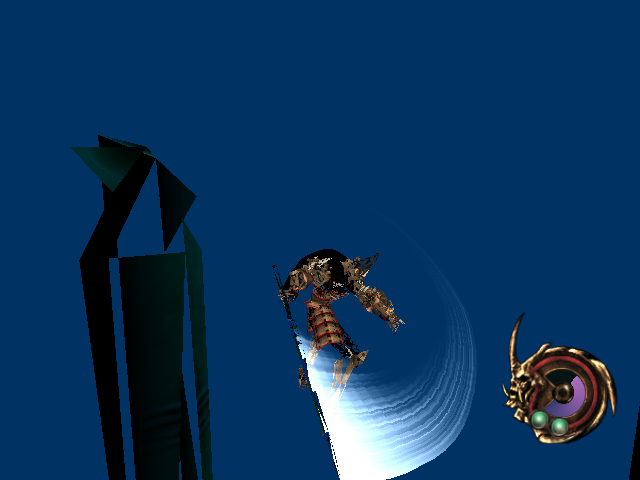
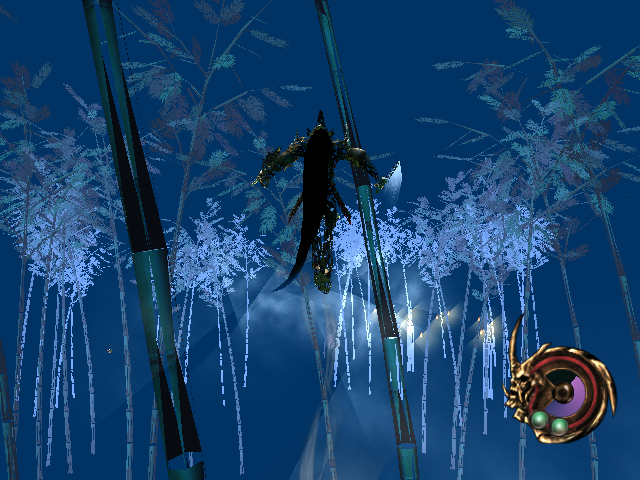
fog: the stage's ground and foliage were the fog unit's offset

diff --git a/docs/KNOWN_ISSUES.md b/docs/KNOWN_ISSUES.md
@@ -2,36 +2,39 @@
 
 One entry per open blocker. Each records the symptom as it appears in a log, the evidence behind it, the current status, and where a fix belongs. Milestone status is in [`../ROADMAP.md`](../ROADMAP.md); the raw history is in [`BOOT_LOG.md`](BOOT_LOG.md).
 
-## The stage's lit geometry is drawn inside-out and too dark
+## The stage's lit geometry was drawn inside-out, torn and painted the fog colour
+
+Closed on 2026-10-28 in three parts; kept because each symptom pointed at a
+
+different fault and the first two fixes only looked like each other.
 
 - **Symptom:** on the start-game stage the bamboo trunks read as hollow black
   wedges with a green rim, the player model as a dark inside-out silhouette,
-  and the ground is the same blue as the sky. In close-up cutscene shots the
-  player tears into spiky triangles instead of a smooth model. The HUD, the
-  leaves, the haze planes and the light shafts draw.
-- **Fixed on 2026-10-28 — the inside-out half:** the OpenGL back end mirrored
-  `SET_FRONT_FACE` in `apply_state()`; mirrored, every closed mesh kept its
-  back faces (the inside). It now maps 0x0900/0x0901 straight through, and
-  `RECOMP_GL_NO_CULL=1`/the fixed build both draw the trunks solid. See
-  `BOOT_LOG.md`, 2026-10-28.
-- **Still open — the dark half:** the ground and the shaded side of the
-  trunks carry the fog/sky colour, and the close-up player tears. Evidence:
-  culling off changes neither the ground nor the tearing; `RECOMP_GL_FLAT=1`
-  paints the whole scene, so the geometry is submitted and passes depth, cull
-  and alpha; `RECOMP_GL_NO_COMB=1` makes the stage darker, not brighter, so
-  the combiner is not the only stage in play. `RECOMP_VSH_ALWAYS=1` is not
-  the answer (1.7M draw calls, flips stop).
-- **Ruled out:** an unimplemented stage mode (`[PBGL] stage modes` counts 270
-  mode-6 uses against 3.5M of 0/1/4), the G8B8 decode below, and culling
-  (above).
-- **Status:** open. Next lead: the per-vertex colour and fog factor the lit
-  batches hand the pixel stage, on **both** back ends — the CPU rasteriser
-  misses the ground too, so this is executor-side, not GL-side. `RECOMP_VSH_DUMP`
-  over a stage run is the cheapest next capture (the lighting programs are
-  the ones with `lit`/`dp3` and the c[64+] constants).
-- **Where the fix belongs:** the executor's vertex program interpreter or the
-  per-vertex inputs it builds (`src/kernel/nv2a_pb_exec.c`,
-  `src/kernel/nv2a_vsh_interp.c`), not the OpenGL back end's state.
+  and the ground was the same blue as the sky. In close-up cutscene shots the
+  player tore into spiky triangles instead of a smooth model. The HUD, the
+  leaves, the haze planes and the light shafts drew.
+- **The inside-out half (fixed):** the OpenGL back end mirrored `SET_FRONT_FACE`
+  in `apply_state()`; mirrored, every closed mesh kept its back faces (the
+  inside). It now maps 0x0900/0x0901 straight through.
+- **The torn half (fixed):** `NV_PRIM_TRIANGLE_STRIP` was decomposed as three
+  consecutive vertices in ascending order. The hardware reverses every other
+  triangle, so every odd one faced backwards -- invisible where nothing culls,
+  and a mesh shredded into its flipped triangles wherever the title does.
+  `RECOMP_CULL_LOG` shows Otogi's model arriving as strip batches with culling
+  on, alternating cull-front and cull-back.
+- **The blue wash half (fixed):** the fog unit subtracted a constant from
+  `fog_param0 + coord * fog_param1`. Otogi enables fog and leaves both params
+  at 1.0, which saturates to "no fog" on hardware; the subtraction turned the
+  program's own `oFog` into the fog factor instead, and painted the ground and
+  the foliage with the fog colour. `RECOMP_FOG_TRACE` caught it:
+  `[FOG] mode 2601 en 1 px 1 py 1 d -nan -> f 1`. The linear path no longer
+  subtracts anything. The exponential paths still do (see `BOOT_LOG.md`).
+- **Verification:** the stage now draws dark green foliage, teal trunks and a
+  textured dark ground under the haze band, with the player model whole in
+  close-ups, culling on.
+- **Where the fixes belong:** `apply_state()` in `src/nv2a/nv2a_pb_gl.c`, and
+  the primitive decompositions and `fog_factor()` in
+  `src/kernel/nv2a_pb_exec.c`.
 
 ## Closed on 2026-10-28 — the effect planes drew as hard-edged wedges
 

diff --git a/docs/RUNNING.md b/docs/RUNNING.md
@@ -51,9 +51,13 @@ $ ./build-win/bin/otogi1.exe # MinGW cross-build
 
 It runs the title's main loop indefinitely; `Ctrl+C` ends it.
 
-**Reference run:** `RECOMP_USB=1 RECOMP_FB_WINDOW=1 RECOMP_PB_EXEC=1 RECOMP_AC97_READY=1 ./build-linux/bin/otogi1` with a physical gamepad reaches New Game, save creation and loading, the main menu, the start-game stage and the pause menu. On the stage the player's 3D model is drawn; the stage world is not.
+**Reference run:** `RECOMP_USB=1 RECOMP_FB_WINDOW=1 RECOMP_PB_EXEC=1 RECOMP_AC97_READY=1 ./build-linux/bin/otogi1` with a physical gamepad reaches New Game, save creation and loading, the main menu, the start-game stage and the pause menu. On the stage the bamboo grove, the ground haze, the light shafts, the HUD and the player's 3D model are drawn.
+
+**Headless run, no input at all:** `RECOMP_PB_EXEC=1 RECOMP_USB=1 ./build-linux/bin/otogi1` sits on the title screen, which is where the looping attract movie plays — any pad input skips it, so this is the only way to capture that phase (`BOOT_LOG.md`, 2026-10-28).
 
 **Headless run, no pad:** `RECOMP_PB_EXEC=1 RECOMP_USB=1 RECOMP_AUTOPRESS=1 ./build-linux/bin/otogi1` taps START then A on the emulated pad, starts a new game and reaches the start-game stage in about 90-120 s. It renders through the OpenGL back end by default. Add `RECOMP_FB_DUMP=/tmp/f` and `RECOMP_FB_DUMP_FLIPS=/tmp/go` to write a BMP per presented frame while `/tmp/go` exists — the only way to look at a headless run.
+
+**Headless run to a specific screen:** a pad *script* is deterministic where the autopress schedule is not — one 2026-10-27 run sat on the title screen for 175 s because both START taps fell before the title was reading its pad. `RECOMP_PAD_SCRIPT` takes a timeline in milliseconds (`<ms>:<button>[:<hold ms>]`, comma or newline separated, `@file` to read it from a file), e.g. START taps every 1.5 s for 24 s and then an A tap every 1.2 s; that reaches the stage and the pause menu every time (`BOOT_LOG.md`, 2026-10-27).
 
 The OpenGL path needs a display. On a machine with none, run it under `Xvfb`; without one, `RECOMP_PB_GL=0` falls back to the CPU rasteriser, which is roughly ten times slower on the same scene.
 
@@ -73,8 +77,18 @@ instructions use; `AGENTS.md` § 7 has the complete set.
 | `RECOMP_SYNC_IO=1` | Complete `NtReadFile` inline (pre-audio-fix behaviour) |
 | `RECOMP_AUTOPRESS=1` | Tap START then A on the emulated pad (needs `RECOMP_USB`); `RECOMP_AUTOPRESS_PERIOD_MS` sets the A-tap period |
 | `RECOMP_PB_GL=0` | Keep the CPU rasteriser instead of the OpenGL back end |
+| `RECOMP_PAD_SCRIPT=@file` | Drive the pad from a timeline of `<ms>:<button>` entries |
 | `RECOMP_XF_THREADS=<n>` | Vertex-transform workers (default cores-1, max 8) |
 | `RECOMP_DISPATCH_GATE=1` | Serialise DISPATCH_LEVEL and interrupts; set by default for this title |
+| `RECOMP_GL_COMB=<n>` | Print the register-combiner registers, once per distinct configuration, for 2D batches |
+| `RECOMP_GL_STATE=<n>` | Print the render state handed to the back end for a spread of batches |
+| `RECOMP_GL_NO_CULL` / `_NO_DEPTH` / `_NO_BLEND` / `_NO_ALPHA` / `_ALLCHAN` | Force one raster gate open, to bisect a scene that draws too little |
+| `RECOMP_GL_FLAT=1` | Paint every fragment that survives depth, cull and alpha magenta — the difference between "not submitted" and "not painted" |
+| `RECOMP_GL_NO_COMB=1` | Skip the register combiners and modulate stage 0 by the vertex colour, the back end's original pixel stage |
+| `RECOMP_TEX_DUMP=<prefix>` | Write every distinct texture the executor samples as a BMP, through the sampler |
+| `RECOMP_PB_GL_TEXREFRESH=<n>` | Re-upload bound textures every n frames, for a title that rewrites one in place |
+| `RECOMP_XF_FLAT=<n>` | Print the batches that lose every triangle and land on screen, with their inputs and vertex program |
+| `RECOMP_VSH_DUMP=1` | Disassemble each vertex program the title uploads |
 
 On a headless box, run the window under `Xvfb`.
 

diff --git a/docs/BOOT_LOG.md b/docs/BOOT_LOG.md
@@ -788,3 +788,37 @@ Template:
   half, so the ground is submitted and passes every gate); the fog colour
   unpack (R/B swap matches the CPU path); the front-face mapping (bamboo,
   ground and player all agree under the pass-through).
+
+## 2026-10-28 — the fog unit's offset painted the stage the fog colour
+
+- Phase: gameplay (start-game stage, both back ends)
+- Symptom: the ground never separated from the sky and the bamboo foliage was
+  pale cyan where the CPU reference (`docs/img/gameplay.png`) is dark green.
+  Nothing about culling, depth or the combiner explained it: `RECOMP_GL_FLAT=1`
+  painted the whole lower half, so the ground was submitted and passed every
+  gate, and `RECOMP_GL_NO_COMB=1` (diffuse times stage 0, no fog) drew the
+  foliage and bark the right dark green.
+- RVA / target: n/a (a fog unit constant, not a lifted function)
+- Diagnosis: `fog_factor()` subtracted a constant from the NV2A's
+  `fog_param0 + coord * fog_param1` (1.0 linear, 1.5 exponential). Otogi
+  enables fog, leaves both params at 1.0 and writes its own factor into oFog,
+  so the subtraction turned that factor straight into the fog factor:
+  px = py = 1 gives `f = d`, where hardware saturates `1 + d` to 1 -- no fog,
+  which is what the title wanted. The record that caught it:
+  `[FOG] mode 2601 en 1 px 1 py 1 d -nan -> f 1`, and a foliage batch a few
+  units from the camera at `fogf 0.429`, i.e. 57% fog colour on geometry the
+  title leaves unfogged.
+- Fix: `fog_factor()` in `src/kernel/nv2a_pb_exec.c`, linear path only:
+  `f = px + d * py`. The exponential paths keep their `-1.5f` -- this title
+  runs mode 0x2601 (LINEAR) and nothing here exercises exponential fog, so
+  there is no evidence for changing it and the old constant stands until a
+  title with one does.
+- Also in this pass: `RECOMP_FOG_TRACE=<n>` prints the first n fog evaluations
+  (mode, params, distance, factor) -- the capture that settled this, and cheap
+  enough to leave on. `RECOMP_GL_COMB3`/`RECOMP_GL_COMB3_MIN` do the same for
+  the combiner record of the *big 3D* batches; that record is what confirmed
+  the final combiner is `fogcolour*(1-f) + colour*f`, so the convention was
+  never the problem and the factor was.
+- Result: the stage draws dark green foliage, teal trunks and a dark ground
+  under the haze band, and the player model is whole in close-ups with culling
+  on. Still open: the transition wipe quad (below) and the movie.
